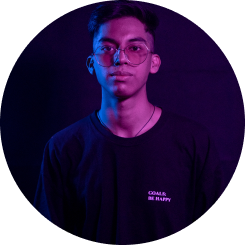
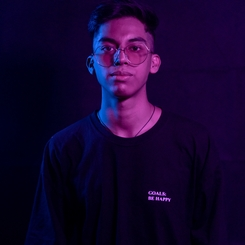
Popup de artistas

diff --git a/src/app/public/pages/discography/discography.page.html b/src/app/public/pages/discography/discography.page.html
@@ -59,38 +59,14 @@
     <div class="flex flex-col items-center">
       <div class="flex flex-col items-center gap-y-4 pb-12">
         <img src="assets/images/logos/logo-white.png" alt="Vibe" class="object-contain h-10">
-        <h4 class="text-white text-3xl font-medium uppercase">ARTISTAS</h4>
+        <h4 class="text-white text-xl md:text-3xl font-medium uppercase">ARTISTAS</h4>
       </div>
 
       <div class="flex flex-wrap justify-center items-center pb-24 px-0 md:px-20">
-        <div class="flex flex-col items-center w-full sm:w-1/2 md:w-1/3 px-1.5 py-3 md:px-10 md:py-6 gap-y-4">
-          <img src="assets/images/artists/artist_01.png" alt="Artista 01" class="object-contain w-4/5">
-          <div class="text-white text-base md:text-xl font-semibold text-center">Fabrizio Andy</div>
-        </div>
-
-        <div class="flex flex-col items-center w-full sm:w-1/2 md:w-1/3 px-1.5 py-3 md:px-10 md:py-6 gap-y-4">
-          <img src="assets/images/artists/artist_02.png" alt="Artista 02" class="object-contain w-4/5">
-          <div class="text-white text-base md:text-xl font-semibold text-center">Diego Armando</div>
-        </div>
-
-        <div class="flex flex-col items-center w-full sm:w-1/2 md:w-1/3 px-1.5 py-3 md:px-10 md:py-6 gap-y-4">
-          <img src="assets/images/artists/artist_03.png" alt="Artista 03" class="object-contain w-4/5">
-          <div class="text-white text-base md:text-xl font-semibold text-center">Noemí Cotrina</div>
-        </div>
-
-        <div class="flex flex-col items-center w-full sm:w-1/2 md:w-1/3 px-1.5 py-3 md:px-10 md:py-6 gap-y-4">
-          <img src="assets/images/artists/artist_04.png" alt="Artista 04" class="object-contain w-4/5">
-          <div class="text-white text-base md:text-xl font-semibold text-center">Isaac Cueto</div>
-        </div>
-
-        <div class="flex flex-col items-center w-full sm:w-1/2 md:w-1/3 px-1.5 py-3 md:px-10 md:py-6 gap-y-4">
-          <img src="assets/images/artists/artist_05.png" alt="Artista 05" class="object-contain w-4/5">
-          <div class="text-white text-base md:text-xl font-semibold text-center">Stephie García</div>
-        </div>
-
-        <div class="flex flex-col items-center w-full sm:w-1/2 md:w-1/3 px-1.5 py-3 md:px-10 md:py-6 gap-y-4">
-          <img src="assets/images/artists/artist_06.png" alt="Artista 06" class="object-contain w-4/5">
-          <div class="text-white text-base md:text-xl font-semibold text-center">Karina Salvatierra</div>
+        <div *ngFor="let artist of artists" (click)="openArtistPopup(artist)"
+             class="cursor-pointer flex flex-col items-center w-full sm:w-1/2 md:w-1/3 px-1.5 py-3 md:px-10 md:py-6 gap-y-4">
+          <img [src]="artist.image" [alt]="artist.alt" class="object-contain w-4/5 rounded-full">
+          <div class="text-white text-base md:text-xl font-semibold text-center">{{artist.name}}</div>
         </div>
       </div>
     </div>
@@ -122,9 +98,11 @@
           <div class="flex flex-col justify-start gap-y-8 text-white">
             <div>
               <span class="hidden md:block text-lg font-medium">{{selectedMusic.name}}</span>
-              <div class="flex flex-col md:flex-row items-center pt-4 gap-y-1.5 md:gap-y-0 md:pt-0" *ngFor="let description of selectedMusic.descriptions">
+              <div class="flex flex-col md:flex-row items-center pt-4 gap-y-1.5 md:gap-y-0 md:pt-0"
+                   *ngFor="let description of selectedMusic.descriptions">
                 <span class="text-center md:text-left text-xs md:pt-0">{{description.header}}:</span>
-                <span class="text-center md:text-left text-xs font-medium md:pt-0 md:ml-1">{{description.content}}</span>
+                <span
+                  class="text-center md:text-left text-xs font-medium md:pt-0 md:ml-1">{{description.content}}</span>
               </div>
             </div>
 
@@ -149,6 +127,80 @@
                     fill="white"/>
                 </svg>
               </a>
+            </div>
+          </div>
+        </div>
+      </div>
+    </div>
+  </div>
+
+</div>
+
+
+<div *ngIf="showArtist" class="w-full h-full fixed block top-0 left-0 opacity-100 z-40"
+     style="background-color: rgba(0, 0, 0, 0.5);" (click)="closeArtistsPopup()">
+
+  <div class="my-0 mx-auto block relative">
+    <div class="grid min-h-screen place-items-center">
+
+
+      <div class="relative bg-black rounded-3xl p-4 md:p-8 w-5/6 md:w-1/2">
+        <div class="absolute -right-5 md:-right-8 -top-5 md:top-1 text-white z-50">
+          <div class="flex items-end cursor-pointer" (click)="closeArtistsPopup()">
+            <svg class="ml-auto fill-current w-6 h-6" xmlns="http://www.w3.org/2000/svg"
+                 viewBox="0 0 18 18">
+              <path
+                d="M14.53 4.53l-1.06-1.06L9 7.94 4.53 3.47 3.47 4.53 7.94 9l-4.47 4.47 1.06 1.06L9 10.06l4.47 4.47 1.06-1.06L10.06 9z"/>
+            </svg>
+          </div>
+        </div>
+
+        <div class="flex flex-col md:flex-row md:justify-center items-center md:items-start gap-x-6">
+          <img [src]="selectedArtist.image" [alt]="selectedArtist.alt"
+               class="object-contain w-full h-full md:w-60 md:h-60 rounded-2xl">
+          <div class="flex flex-col justify-start gap-y-8 text-white">
+            <div>
+              <div class="text-center md:text-left text-lg py-4 font-semibold">{{selectedArtist.name}}</div>
+              <div class="px-4 md:px-0">
+                <p class="text-left text-xs font-medium pb-4"
+                   [innerHTML]="selectedArtist.description | safe: 'html'"></p>
+                <span class="text-left text-xs font-medium" [innerHTML]="selectedArtist.phrase"></span>
+              </div>
+            </div>
+
+            <div class="flex flex-col items-center md:items-start gap-y-2 w-full pb-4">
+              <span class="text-sm">Sígueme en</span>
+              <div class="flex justify-center items-center gap-x-4">
+                <a *ngIf="selectedArtist.networks && selectedArtist.networks.instagram"
+                   [href]="selectedArtist.networks.instagram" target="_blank"
+                   class="text-white opacity-100 md:opacity-50 hover:opacity-100">
+                  <i class="fa-brands fa-instagram text-3xl md:text-2xl"></i>
+                </a>
+
+                <a *ngIf="selectedArtist.networks && selectedArtist.networks.facebook"
+                   [href]="selectedArtist.networks.facebook" target="_blank"
+                   class="text-white opacity-100 md:opacity-50 hover:opacity-100">
+                  <i class="fa-brands fa-facebook text-2xl md:text-xl"></i>
+                </a>
+
+                <a *ngIf="selectedArtist.networks && selectedArtist.networks.tiktok"
+                   [href]="selectedArtist.networks.tiktok" target="_blank"
+                   class="text-white opacity-100 md:opacity-50 hover:opacity-100">
+                  <i class="fa-brands fa-tiktok text-2xl md:text-xl"></i>
+                </a>
+
+                <a *ngIf="selectedArtist.networks && selectedArtist.networks.youtube"
+                   [href]="selectedArtist.networks.youtube" target="_blank"
+                   class="text-white opacity-100 md:opacity-50 hover:opacity-100">
+                  <i class="fa-brands fa-youtube text-3xl md:text-2xl"></i>
+                </a>
+
+                <a *ngIf="selectedArtist.networks && selectedArtist.networks.web"
+                   [href]="selectedArtist.networks.web" target="_blank"
+                   class="text-white opacity-100 md:opacity-50 hover:opacity-100">
+                  <i class="fa-solid fa-earth-americas text-2xl md:text-xl"></i>
+                </a>
+              </div>
             </div>
           </div>
         </div>

diff --git a/src/app/public/pages/discography/discography.page.ts b/src/app/public/pages/discography/discography.page.ts
@@ -1,5 +1,5 @@
 import { Component, HostListener, OnInit } from '@angular/core';
-import { Music, MusicService } from "@vibe/shared/services";
+import { Artist, ArtistService, Music, MusicService } from "@vibe/shared/services";
 
 import SwiperCore, { Autoplay, Navigation, SwiperOptions } from "swiper";
 
@@ -13,7 +13,9 @@ SwiperCore.use([Autoplay, Navigation]);
 export class DiscographyPage implements OnInit {
 
   showSingle = false;
+  showArtist = false;
   singles: any;
+  artists: Artist[] = [];
   selectedMusic: Music = {
     order: 0,
     image: '',
@@ -22,7 +24,22 @@ export class DiscographyPage implements OnInit {
     descriptions: [],
     networks: {
       spotify: '',
-      youtube: ''
+      youtube: '',
+      instagram: '',
+      tiktok: ''
+    }
+  };
+
+  selectedArtist: Artist = {
+    order: 0,
+    image: '',
+    name: '',
+    description: '',
+    networks: {
+      spotify: '',
+      youtube: '',
+      instagram: '',
+      tiktok: ''
     }
   };
 
@@ -37,8 +54,10 @@ export class DiscographyPage implements OnInit {
     }
   };
 
-  constructor(public musicService: MusicService) {
+  constructor(public musicService: MusicService,
+              private artistService: ArtistService) {
     this.getSingles();
+    this.getArtists();
   }
 
   ngOnInit(): void {
@@ -47,6 +66,10 @@ export class DiscographyPage implements OnInit {
 
   getSingles() {
     this.musicService.singles$.subscribe(res => this.singles = res);
+  }
+
+  getArtists() {
+    this.artistService.getArtists().subscribe(res => this.artists = res);
   }
 
   toggleSingle() {
@@ -66,8 +89,18 @@ export class DiscographyPage implements OnInit {
     this.selectedMusic = data;
   }
 
+  openArtistPopup(data: Artist) {
+    this.showArtist = true;
+    this.selectedArtist = data;
+  }
+
+  closeArtistsPopup() {
+    this.showArtist = false;
+  }
+
   @HostListener('window:keyup.esc') onKeyUp() {
     this.closeSingle();
+    this.closeArtistsPopup();
   }
 
 }

diff --git a/src/app/shared/services/artist.service.ts b/src/app/shared/services/artist.service.ts
@@ -1,13 +1,25 @@
 import { Injectable } from '@angular/core';
 import { HttpClient } from "@angular/common/http";
+import { SocialNetworks } from "@vibe/shared/services/music.service";
+import { tap } from "rxjs";
 
-export interface Artist {
+export interface Staff {
   firstName: string;
   secondName: string;
   associatedFrom: string;
   description: string;
   phrase: string;
   youtubeEmbed: string;
+}
+
+export interface Artist {
+  order: number;
+  image: string;
+  alt?: string;
+  name: string;
+  description: string;
+  phrase?: string;
+  networks: SocialNetworks;
 }
 
 @Injectable({
@@ -18,8 +30,16 @@ export class ArtistService {
   constructor(private http: HttpClient) {
   }
 
-  findAll() {
-    return this.http.get<Artist[]>('./assets/data/artists.json');
+  getStaff() {
+    return this.http.get<Staff[]>('./assets/data/staff.json');
+  }
+
+  getArtists() {
+    return this.http.get<Artist[]>('./assets/data/artists.json').pipe(
+      tap(res => res.sort((a, b) => {
+        return a.order < b.order ? -1 : 1;
+      }))
+    );
   }
 
 }

diff --git a/src/app/public/pages/home/home.page.ts b/src/app/public/pages/home/home.page.ts
@@ -1,7 +1,7 @@
 import { Component, HostListener, OnInit, ViewChild } from '@angular/core';
 
 import SwiperCore, { Autoplay, Navigation, SwiperOptions } from "swiper";
-import { Artist, ArtistService, ConstantService } from "@vibe/shared/services";
+import { Staff, ArtistService, ConstantService } from "@vibe/shared/services";
 import { SwiperComponent } from "swiper/angular";
 
 SwiperCore.use([Autoplay, Navigation]);
@@ -50,7 +50,7 @@ export class HomePage implements OnInit {
 
   showVideo = false;
   selectedEmbed = '';
-  artists: Artist[] = [];
+  artists: Staff[] = [];
 
   constructor(private artistService: ArtistService,
               public constantService: ConstantService) {
@@ -62,7 +62,7 @@ export class HomePage implements OnInit {
   }
 
   getArtists() {
-    this.artistService.findAll().subscribe(
+    this.artistService.getStaff().subscribe(
       res => this.artists = res
     );
   }

diff --git a/src/app/shared/services/music.service.ts b/src/app/shared/services/music.service.ts
@@ -12,8 +12,12 @@ export interface Music {
 }
 
 export interface SocialNetworks {
-  spotify: string;
-  youtube: string;
+  spotify?: string;
+  youtube?: string;
+  instagram?: string;
+  tiktok?: string;
+  facebook?: string;
+  web?: string;
 }
 
 export interface Description {
